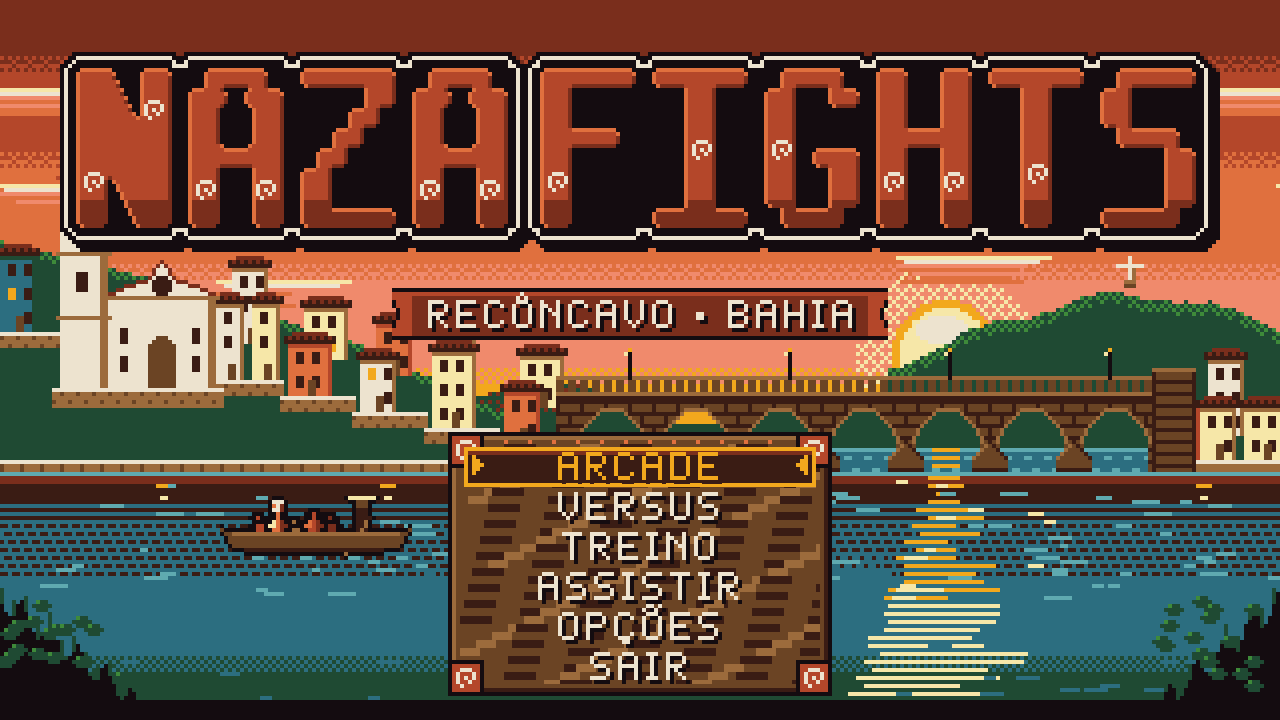
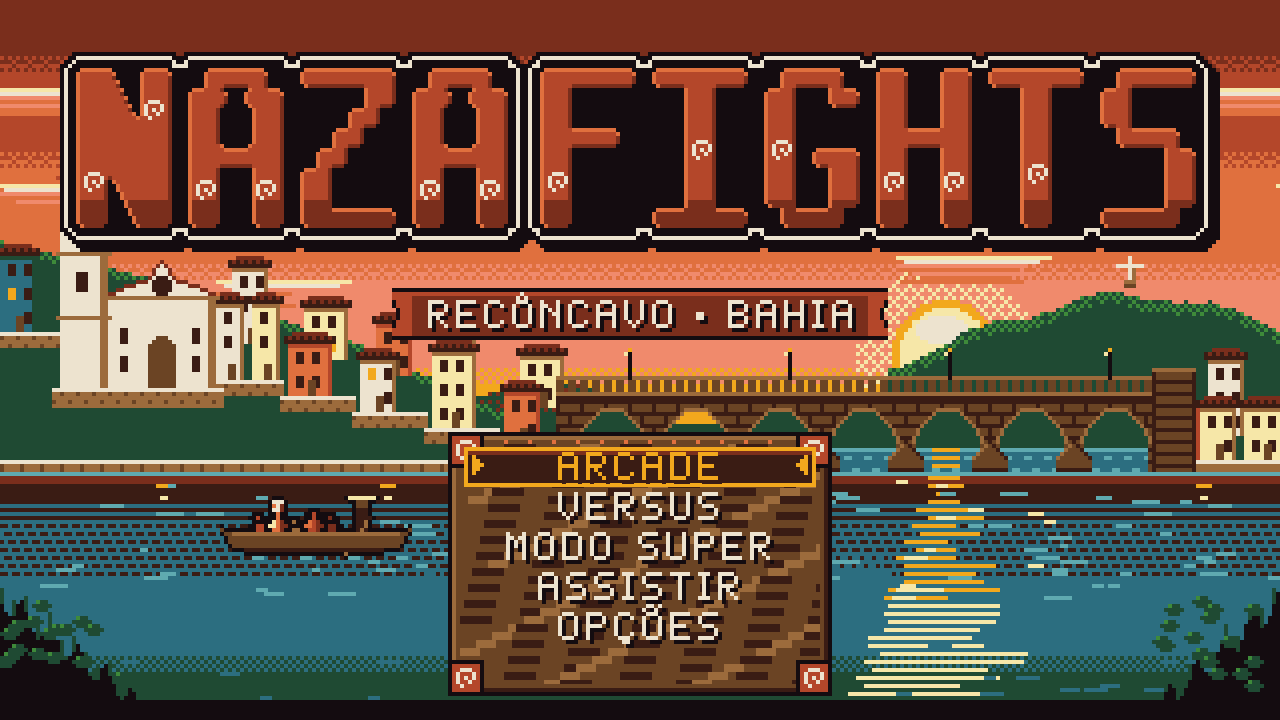
Menu enxuto (Arcade, Versus, Modo Super, Assistir, Opcoes) e Modo Super com power sempre cheio
Itens padrao do motor escondidos pelo gerar_layout.py; modo_super.lua ligado por [Files] module; margem do menu corrige o ARCADE cortado. Testado numa copia do motor (PrintWindow).

Changed region(s): [[0.375, 0.7333, 0.625, 0.7944], [0.4375, 0.8861, 0.5625, 0.9472]]

diff --git a/ferramentas/gerar_layout.py b/ferramentas/gerar_layout.py
@@ -1771,8 +1771,11 @@ def system_def():
     pmx, pmy = POS["painel_menu"]
     g = POS["grade"]
     lc = "1280,720"
-    itens = [("arcade", "ARCADE"), ("versus", "VERSUS"), ("training", "TREINO"), ("watch", "ASSISTIR"),
-             ("options", "OPÇÕES"), ("exit", "SAIR")]
+    # Menu enxuto (Breno, 2026-11-13). Nome vazio esconde o item padrao do motor. "supermode" e o Modo Super
+    # (modo_super.lua, ligado em [Files] module): versus com as barras de power sempre cheias.
+    itens = [("arcade", "ARCADE"), ("versus", "VERSUS"), ("supermode", "MODO SUPER"), ("watch", "ASSISTIR"),
+             ("options", "OPÇÕES")]
+    escondidos = ["teamarcade", "teamversus", "teamcoop", "survival", "survivalcoop", "training", "exit"]
     t = CABECALHO + f"""
 [Info]
 name = Nazafights
@@ -1791,6 +1794,7 @@ font1 = fonts/naza_menu.def
 font2 = fonts/naza_menu_ativo.def
 font3 = fonts/naza_tab.def
 font4 = fonts/naza_num.def
+module = modo_super.lua     ; item MODO SUPER do menu (versus com power sempre cheio)
 
 [Title Info]
 fadein.time = 20
@@ -1807,7 +1811,7 @@ menu.item.active.bg.spr = 131,0
 menu.item.active.bg.offset = 0,0
 menu.item.active.bg.localcoord = {lc}
 menu.item.active.bg.layerno = 2
-menu.window.margins.y = 12,8
+menu.window.margins.y = 48,8          ; com 12 o motor cortava o alto do 1o item (ARCADE) e da tabua ativa
 menu.window.visibleitems = {len(itens)}
 menu.boxcursor.visible = 0
 menu.boxcursor.localcoord = {lc}
@@ -1815,6 +1819,8 @@ menu.title.uppercase = 0
 """
     for k, v in itens:
         t += f"menu.itemname.{k} = {v}\n"
+    for k in escondidos:
+        t += f"menu.itemname.{k} =\n"
     t += f"""title.font = -1
 loading.font = 3,0,-1
 loading.offset = 1248,700
@@ -2448,7 +2454,7 @@ def previa_titulo(sys_spr, defs, acoes, fontes):
     fundo_bg(tela, defs, "titlebg", sys_spr, acoes, tempo=1150, quadro_fim=True)
     mx, my = nums(t["menu.pos"])
     esp = nums(t["menu.item.spacing"])[1]
-    itens = [v for k, v in t.items() if k.startswith("menu.itemname.")]
+    itens = [v for k, v in t.items() if k.startswith("menu.itemname.") and v]
     for i, item in enumerate(itens):
         y = my + i * esp
         if i == 0:
@@ -2671,7 +2677,7 @@ def verificar():
                     raise SystemExit(f"ERRO: {nome_def} acao {a} usa {q[0]},{q[1]} que nao existe")
         files = secao(secs, "files")
         for k, v in files.items():
-            if k.startswith("font") and not (MOTIF / v).exists():
+            if (k.startswith("font") or k == "module") and not (MOTIF / v).exists():
                 raise SystemExit(f"ERRO: {nome_def} {k} = {v} nao existe")
     obrig = ["lifebar", "simul lifebar", "turns lifebar", "powerbar", "face", "simul face", "turns face", "name",
              "simul name", "turns name", "time", "combo", "round", "winicon"]

diff --git a/LOGBOOK.md b/LOGBOOK.md
@@ -1830,3 +1830,26 @@ uns de pixel art de 2026-11-08 de origem incerta. Refazer folha boss agora pede 
 
 **Próximo:** missão do Breno (Pengaró e Hazak no estilo do CK e do Gutto), efeitos `fx_*` no Blender, pendências acima,
 cenários.
+
+## 2026-11-13, 07:35 — Menu enxuto e Modo Super (Claude, sessão do menu)
+
+**Pedido do Breno:** menu só com Versus, Arcade, Assistir e Opções, mais um modo em que as barras de power ficam
+sempre cheias.
+
+**Entrou:**
+- Menu principal: **ARCADE, VERSUS, MODO SUPER, ASSISTIR, OPÇÕES**. Os itens padrão do motor (team, survival, co-op,
+  treino, sair) saem com nome vazio no `system.def`, feito pelo `gerar_layout.py` (lista `escondidos`). Antes, eles
+  ficavam depois do SAIR, cortados no pé da tabuleta. Para fechar o jogo: Esc no menu ou o X da janela.
+- **Modo Super** (`motif/nazafight/modo_super.lua`, ligado por `[Files] module` no `system.def`; o launcher já leva a
+  pasta do motif inteira para o motor). É o versus 1 contra 1, e a cada quadro de luta o power dos lutadores volta ao
+  máximo (`hook loop#versus` + `setPower(powerMax())`). Vida normal. Nada nos lutadores. O motor roda como `versus`
+  (telas, pausa e placar iguais); a tela de seleção mostra "MODO SUPER". Qualquer outro modo escolhido desliga.
+- O super fica entre Versus e Assistir porque é uma variação do versus (mesma seleção, dois jogadores).
+- `menu.window.margins.y` de 12 para 48: o motor cortava o alto do 1º item (ARCADE) e a tábua ativa ficava vazia.
+  Já acontecia antes desta mudança.
+
+**Conferido no jogo** (cópia do motor nesta máquina, janela capturada por PrintWindow): menu com os 5 itens e o
+ARCADE inteiro; MODO SUPER abre a seleção com o título certo; luta CPU x CPU (só no teste) por 37 s com a barra de power
+dos dois em nível 3 em todos os quadros, inclusive logo depois de um super e do Despertar do Pengaró. A vida caiu normal.
+
+**Não testado:** Modo Super com duas pessoas no teclado (o caminho do power é o mesmo); o launcher novo baixando isso.
